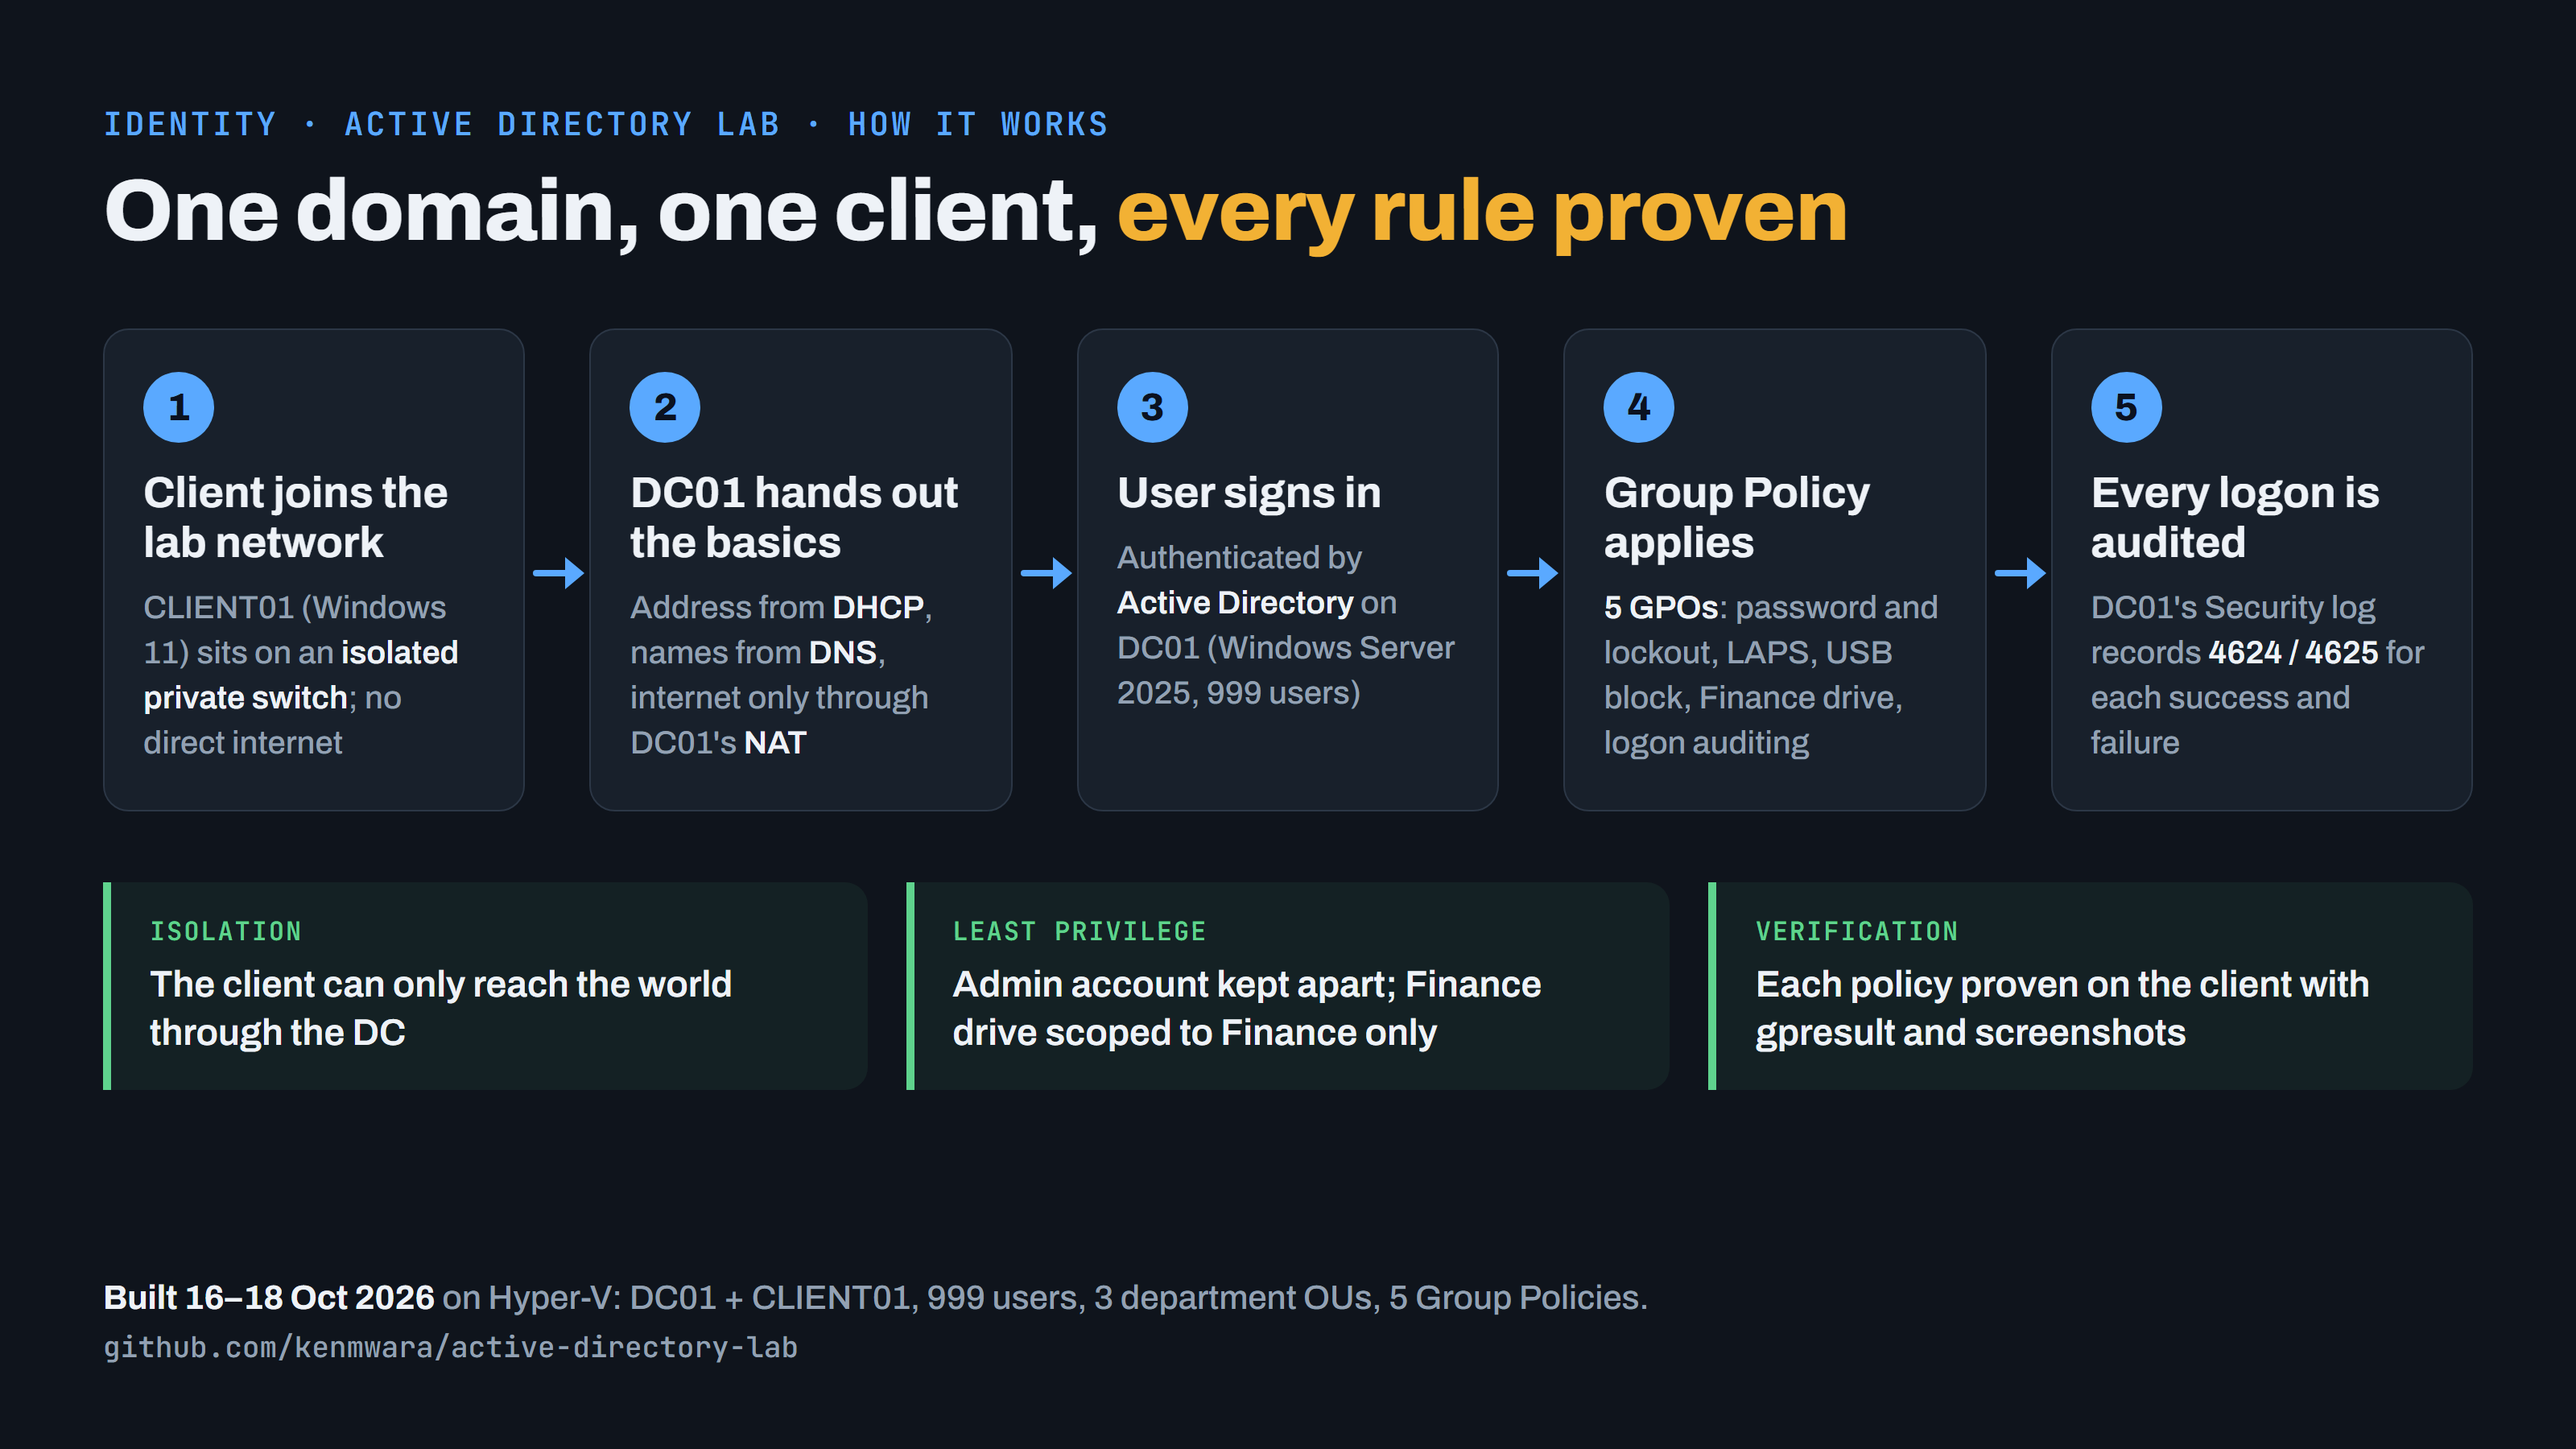
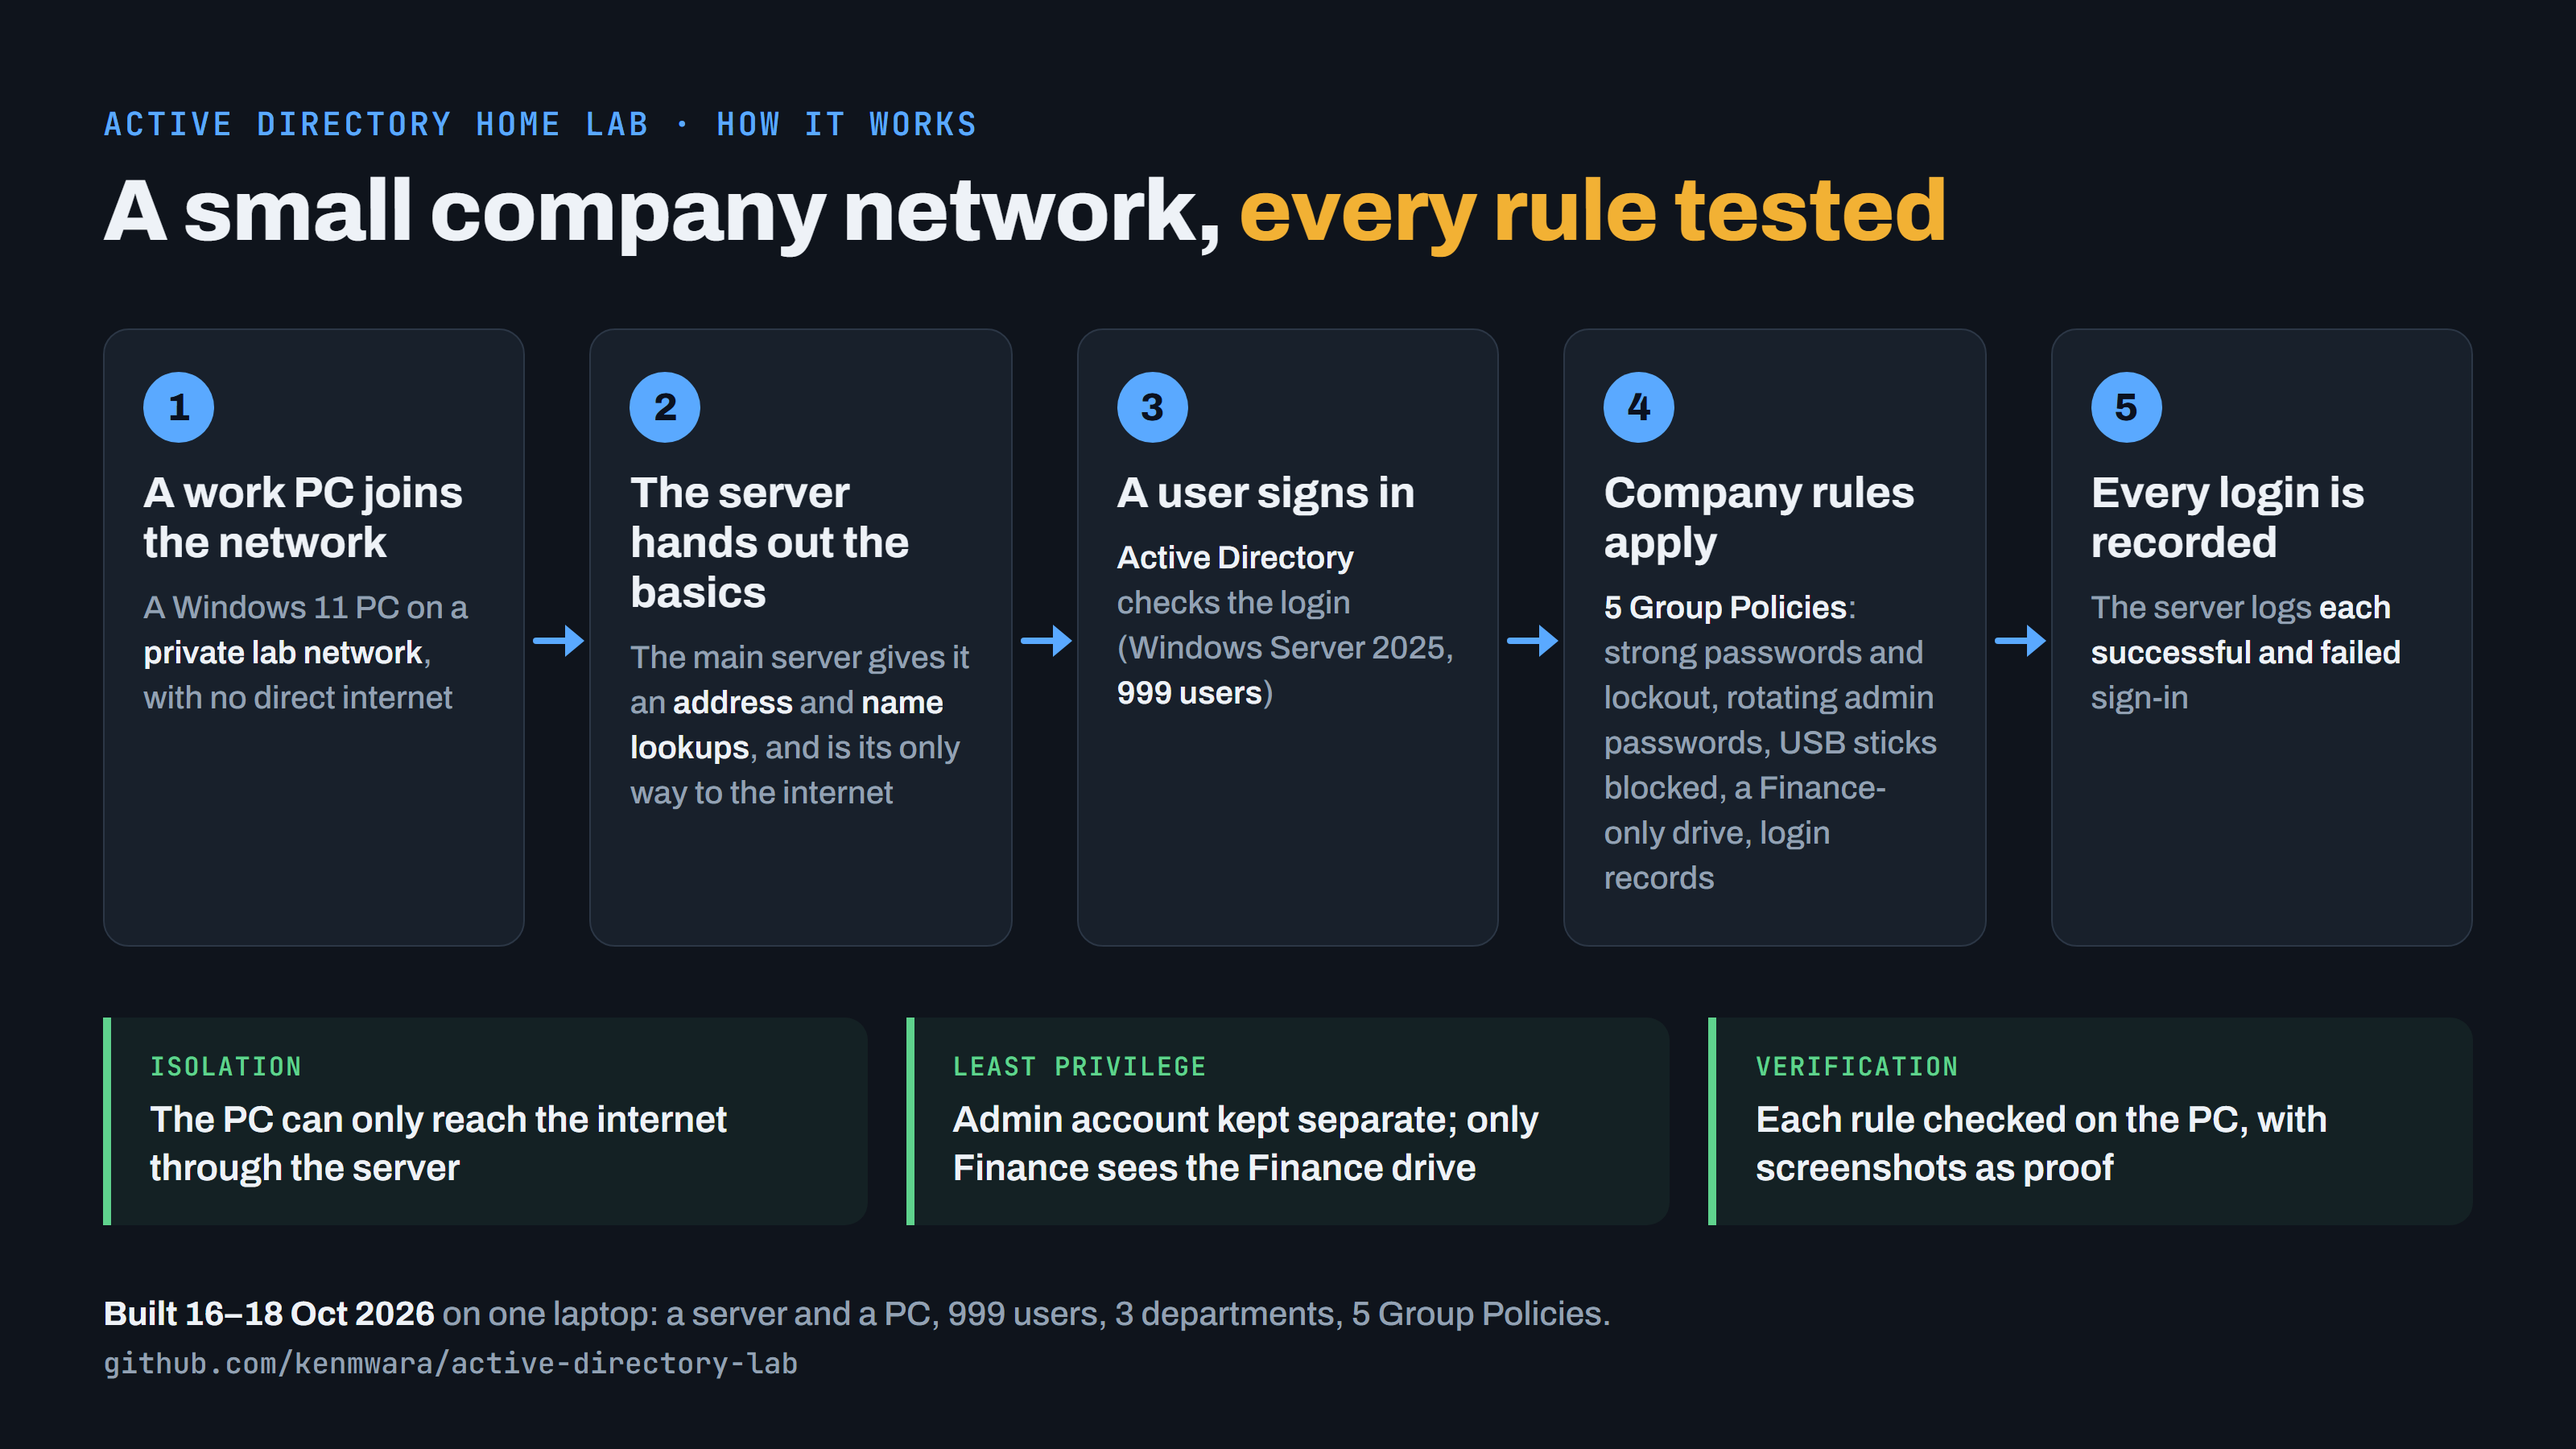
docs: diagrams and scorecards rewritten in plain English

diff --git a/README.md b/README.md
@@ -12,7 +12,7 @@ account was kept separate in `_ADMINS`. Five Group Policies enforce password and
 password rotation (Windows LAPS), removable-storage blocking, a department-scoped network drive, and logon auditing.
 Each policy was applied and verified on the target system.
 
-<img src="images/flow.png" width="100%" alt="Flow diagram in five steps. 1: CLIENT01 (Windows 11) joins an isolated private lab network with no direct internet. 2: DC01 provides an address by DHCP, names by DNS, and internet access only through its NAT. 3: a user signs in, authenticated by Active Directory on DC01 (Windows Server 2025, 999 users). 4: Group Policy applies five GPOs: password and lockout, LAPS, USB block, Finance drive, logon auditing. 5: every logon is audited; DC01's Security log records 4624 and 4625. Guards: isolation, the client reaches the world only through the DC; least privilege, the admin account is kept apart and the Finance drive is scoped to Finance only; verification, each policy proven on the client with gpresult and screenshots.">
+<img src="images/flow.png" width="100%" alt="How the lab works. Active Directory home lab · how it works A small company network, every rule tested 1A work PC joins the networkA Windows 11 PC on a private lab network, with no direct internet 2The server hands out the basicsThe main server gives it an address and name lookups, and is its only way to the internet 3A user signs inActive Directory checks the login (Windows Server 2025, 999 users) 4Company rules apply5 Group Policies: strong passwords and lockout, rotating admin passwords, USB sticks blocked, a Finance-only drive, login records 5Every login is recordedThe server logs each successful and failed sign-in IsolationThe PC can only reach the internet through the server Least privilegeAdmin account kept separate; only Finance sees the Finance drive VerificationEach rule checked on the PC, with screenshots as proof Built 16–18 Oct 2026 on one laptop: a server and a PC, 999 users, 3 departments, 5 Group Policies.github.com/kenmwara/active-directory-lab">
 
 **Status:** complete (built 16 to 18 October 2026). Build guide: [BUILD.md](BUILD.md).
 
